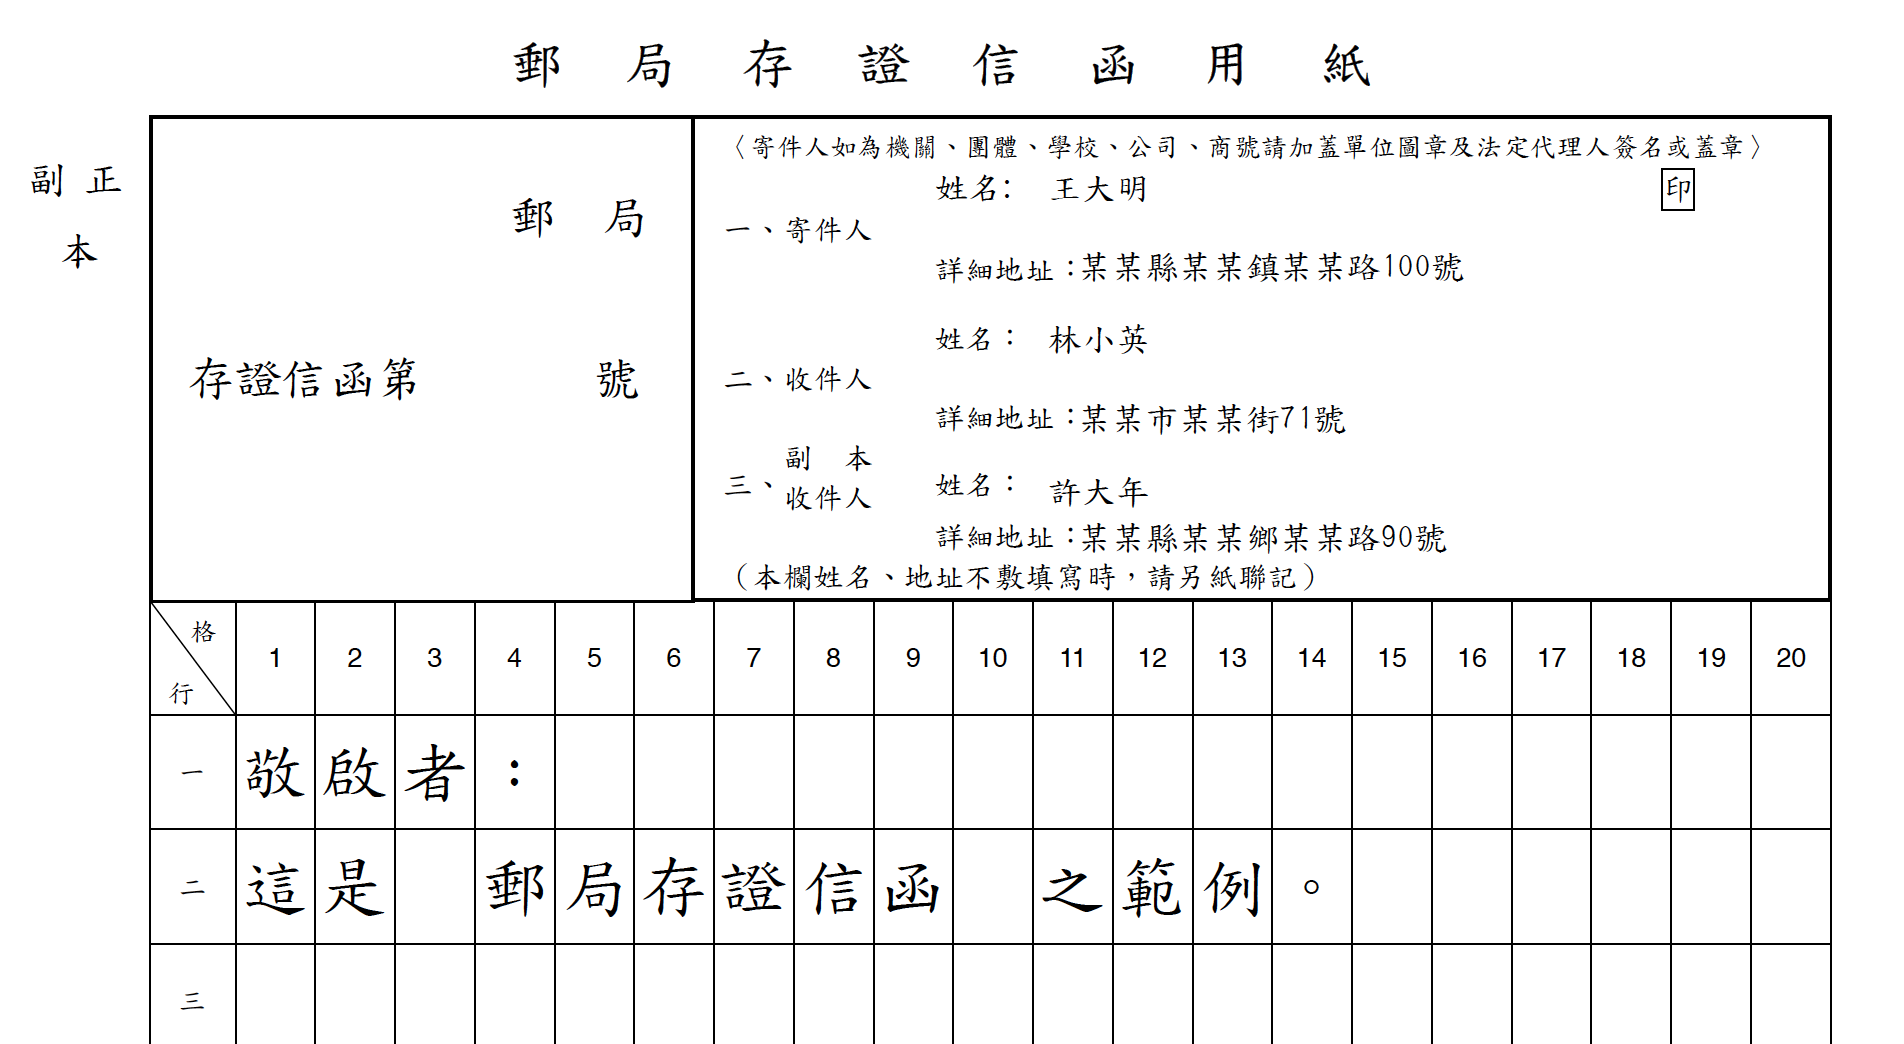
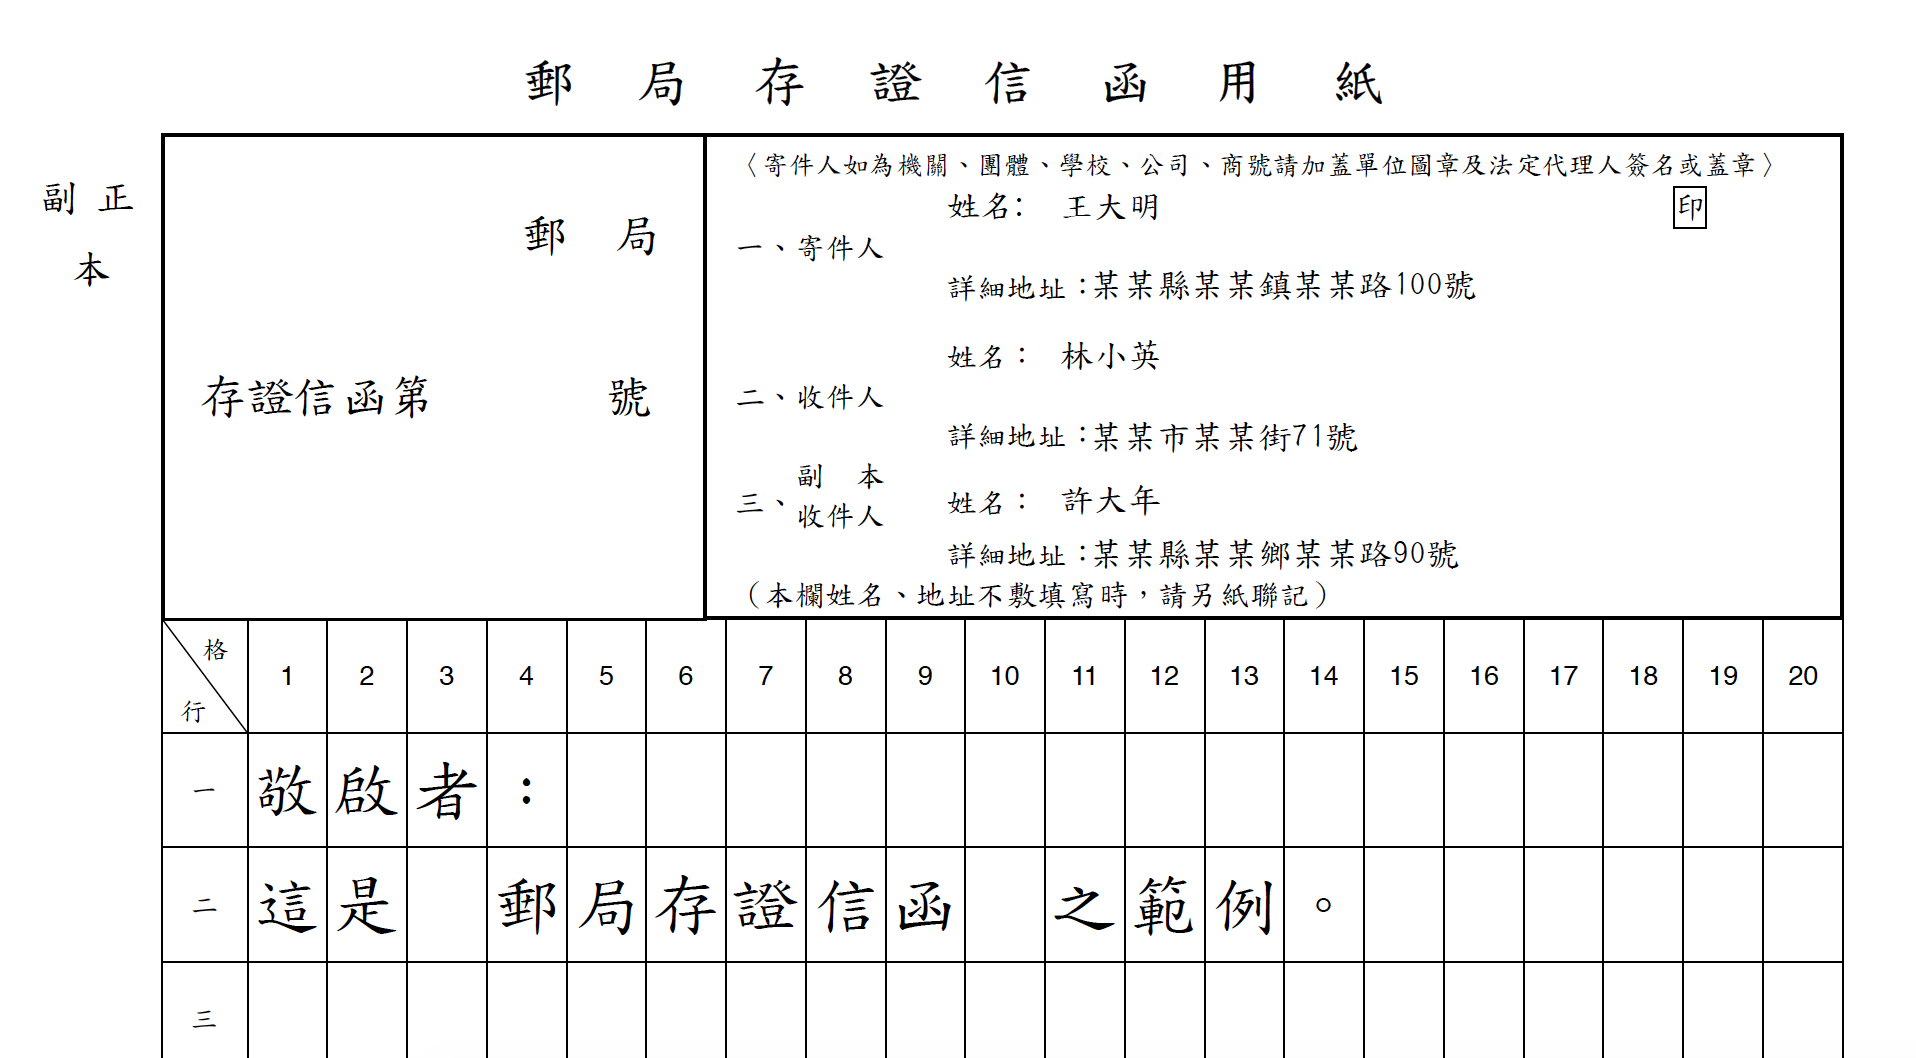
adjust positions

diff --git a/src/lal_constants.py b/src/lal_constants.py
@@ -15,9 +15,9 @@ CONTENT_MAX_LINE_PER_PAGE = 10
 NAME_COORDINATE = {
 's_x_y_begin': (4.60 * PDF_INCH, 10.27 * PDF_INCH),
 's_x_y_interval': (0.48 * PDF_INCH, 0.15 * PDF_INCH),
-'r_x_y_begin': (4.60 * PDF_INCH, 9.65 * PDF_INCH),
+'r_x_y_begin': (4.60 * PDF_INCH, 9.66 * PDF_INCH),
 'r_x_y_interval': (0.48 * PDF_INCH, 0.15 * PDF_INCH),
-'c_x_y_begin': (4.60 * PDF_INCH, 9.02 * PDF_INCH),
+'c_x_y_begin': (4.60 * PDF_INCH, 9.06 * PDF_INCH),
 'c_x_y_interval': (0.48 * PDF_INCH, 0),
 }
 ADDR_COORDINATE = {
@@ -25,7 +25,7 @@ ADDR_COORDINATE = {
 's_y_interval': 0.15 * PDF_INCH,
 'r_x_y_begin': (4.72 * PDF_INCH, 9.32 * PDF_INCH),
 'r_y_interval': 0.15 * PDF_INCH,
-'c_x_y_begin': (4.72 * PDF_INCH, 8.83 * PDF_INCH),
+'c_x_y_begin': (4.72 * PDF_INCH, 8.84 * PDF_INCH),
 'c_y_interval': 0
 }
 LETTER_LEFTMOST_BORDER = 7.80 * PDF_INCH
